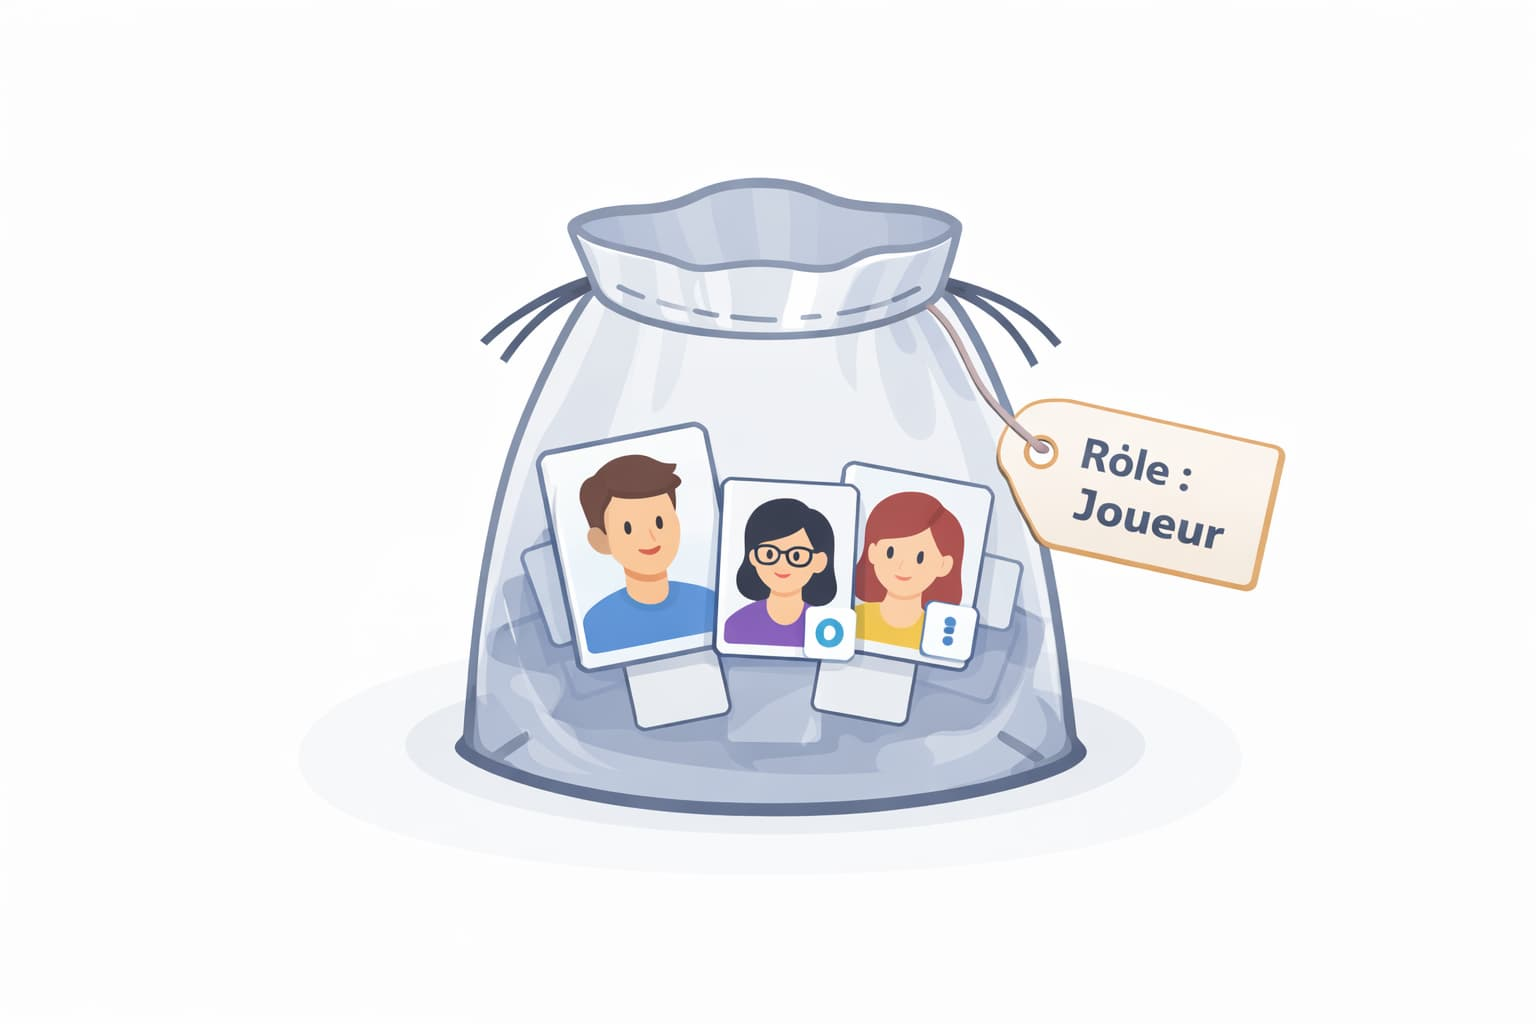
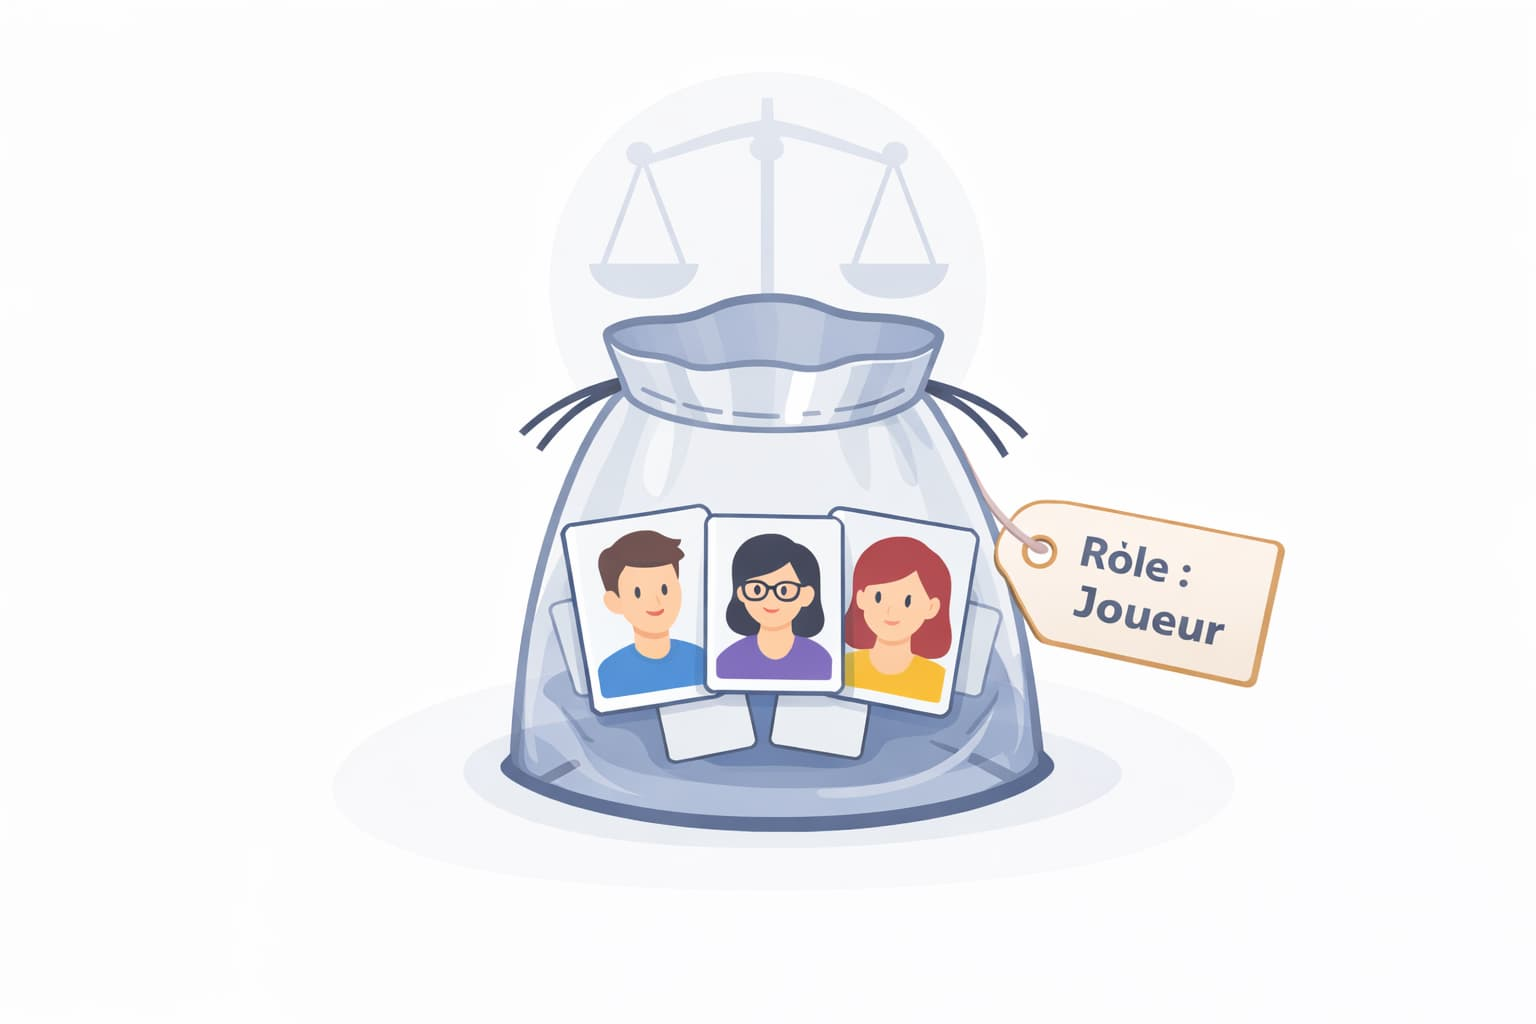
fix(ui): Show chance explanation images above text
Move image zone above explanatory text in ChanceExplanationSlides
so images appear higher. Update slide-1/slide-2 assets. Add
sentence on slide 4: 'Puis on recommence pour chaque rôle.'

Changed region(s): [[0.2812, 0.0938, 0.8438, 0.8125]]

diff --git a/src/components/ChanceExplanationSlides.vue b/src/components/ChanceExplanationSlides.vue
@@ -1,5 +1,14 @@
 <template>
   <div class="chance-explanation-slides">
+    <!-- Zone image (slides statiques) -->
+    <div class="relative bg-gray-800/50 rounded-lg p-4 sm:p-6 min-h-[200px] sm:min-h-[300px] flex items-center justify-center mb-4 pb-2 sm:pb-4">
+      <img
+        :src="`/img/slide-${currentSlide + 1}.jpg`"
+        :alt="`Explication algorithme, étape ${currentSlide + 1}`"
+        class="chance-explanation-slide-img max-w-full max-h-[200px] sm:max-h-[300px] w-auto h-auto object-contain"
+      />
+    </div>
+
     <!-- Texte explicatif -->
     <div class="text-gray-300 text-sm sm:text-xs mb-4 min-h-[60px]">
       <div v-if="currentSlide === 0" class="text-center">
@@ -15,17 +24,8 @@
         Les plus gros papiers ont plus de chances d'être tirés au hasard que les petits.
       </div>
       <div v-if="currentSlide === 4" class="text-center">
-        On fait <span class="text-blue-400 font-semibold">{{ explanationData.requiredCount }}</span> tirage{{ explanationData.requiredCount > 1 ? 's' : '' }} dans le sac sans remettre les papiers tirés
+        On fait <span class="text-blue-400 font-semibold">{{ explanationData.requiredCount }}</span> tirage{{ explanationData.requiredCount > 1 ? 's' : '' }} dans le sac sans remettre les papiers tirés. Puis on recommence pour chaque rôle.
       </div>
-    </div>
-
-    <!-- Zone image (slides statiques) -->
-    <div class="relative bg-gray-800/50 rounded-lg p-4 sm:p-6 min-h-[200px] sm:min-h-[300px] flex items-center justify-center mb-4 pb-2 sm:pb-4">
-      <img
-        :src="`/img/slide-${currentSlide + 1}.jpg`"
-        :alt="`Explication algorithme, étape ${currentSlide + 1}`"
-        class="chance-explanation-slide-img max-w-full max-h-[200px] sm:max-h-[300px] w-auto h-auto object-contain"
-      />
     </div>
 
     <!-- Navigation -->
